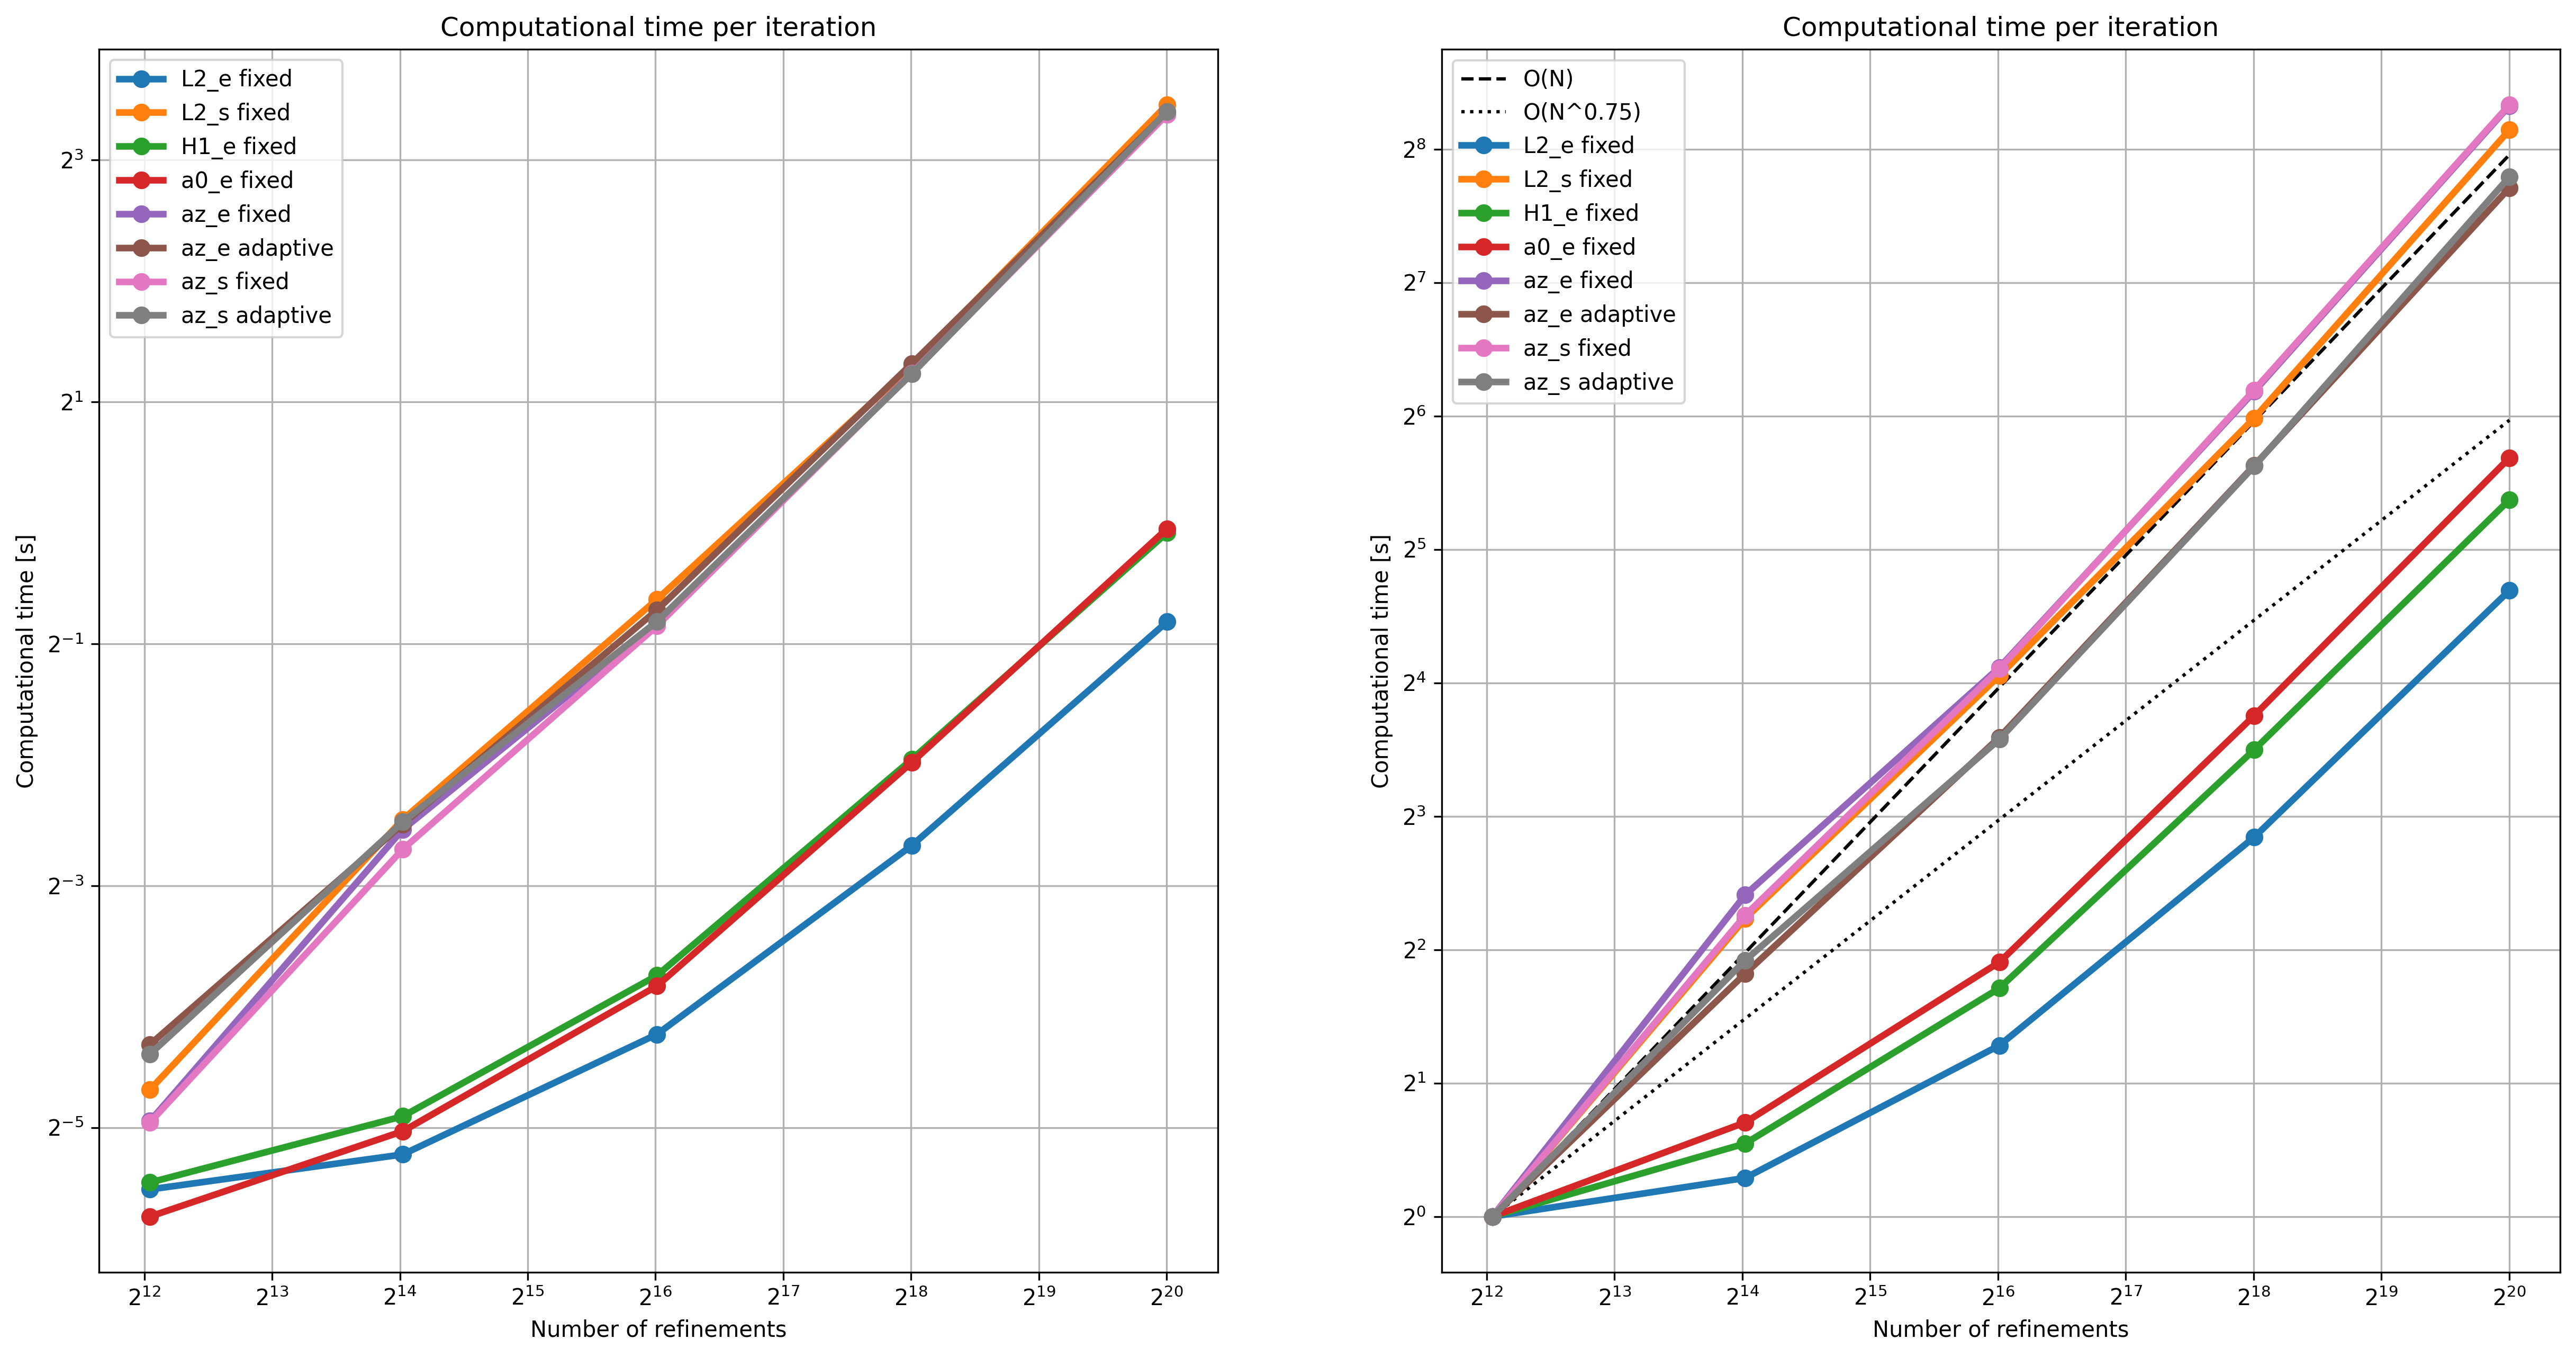
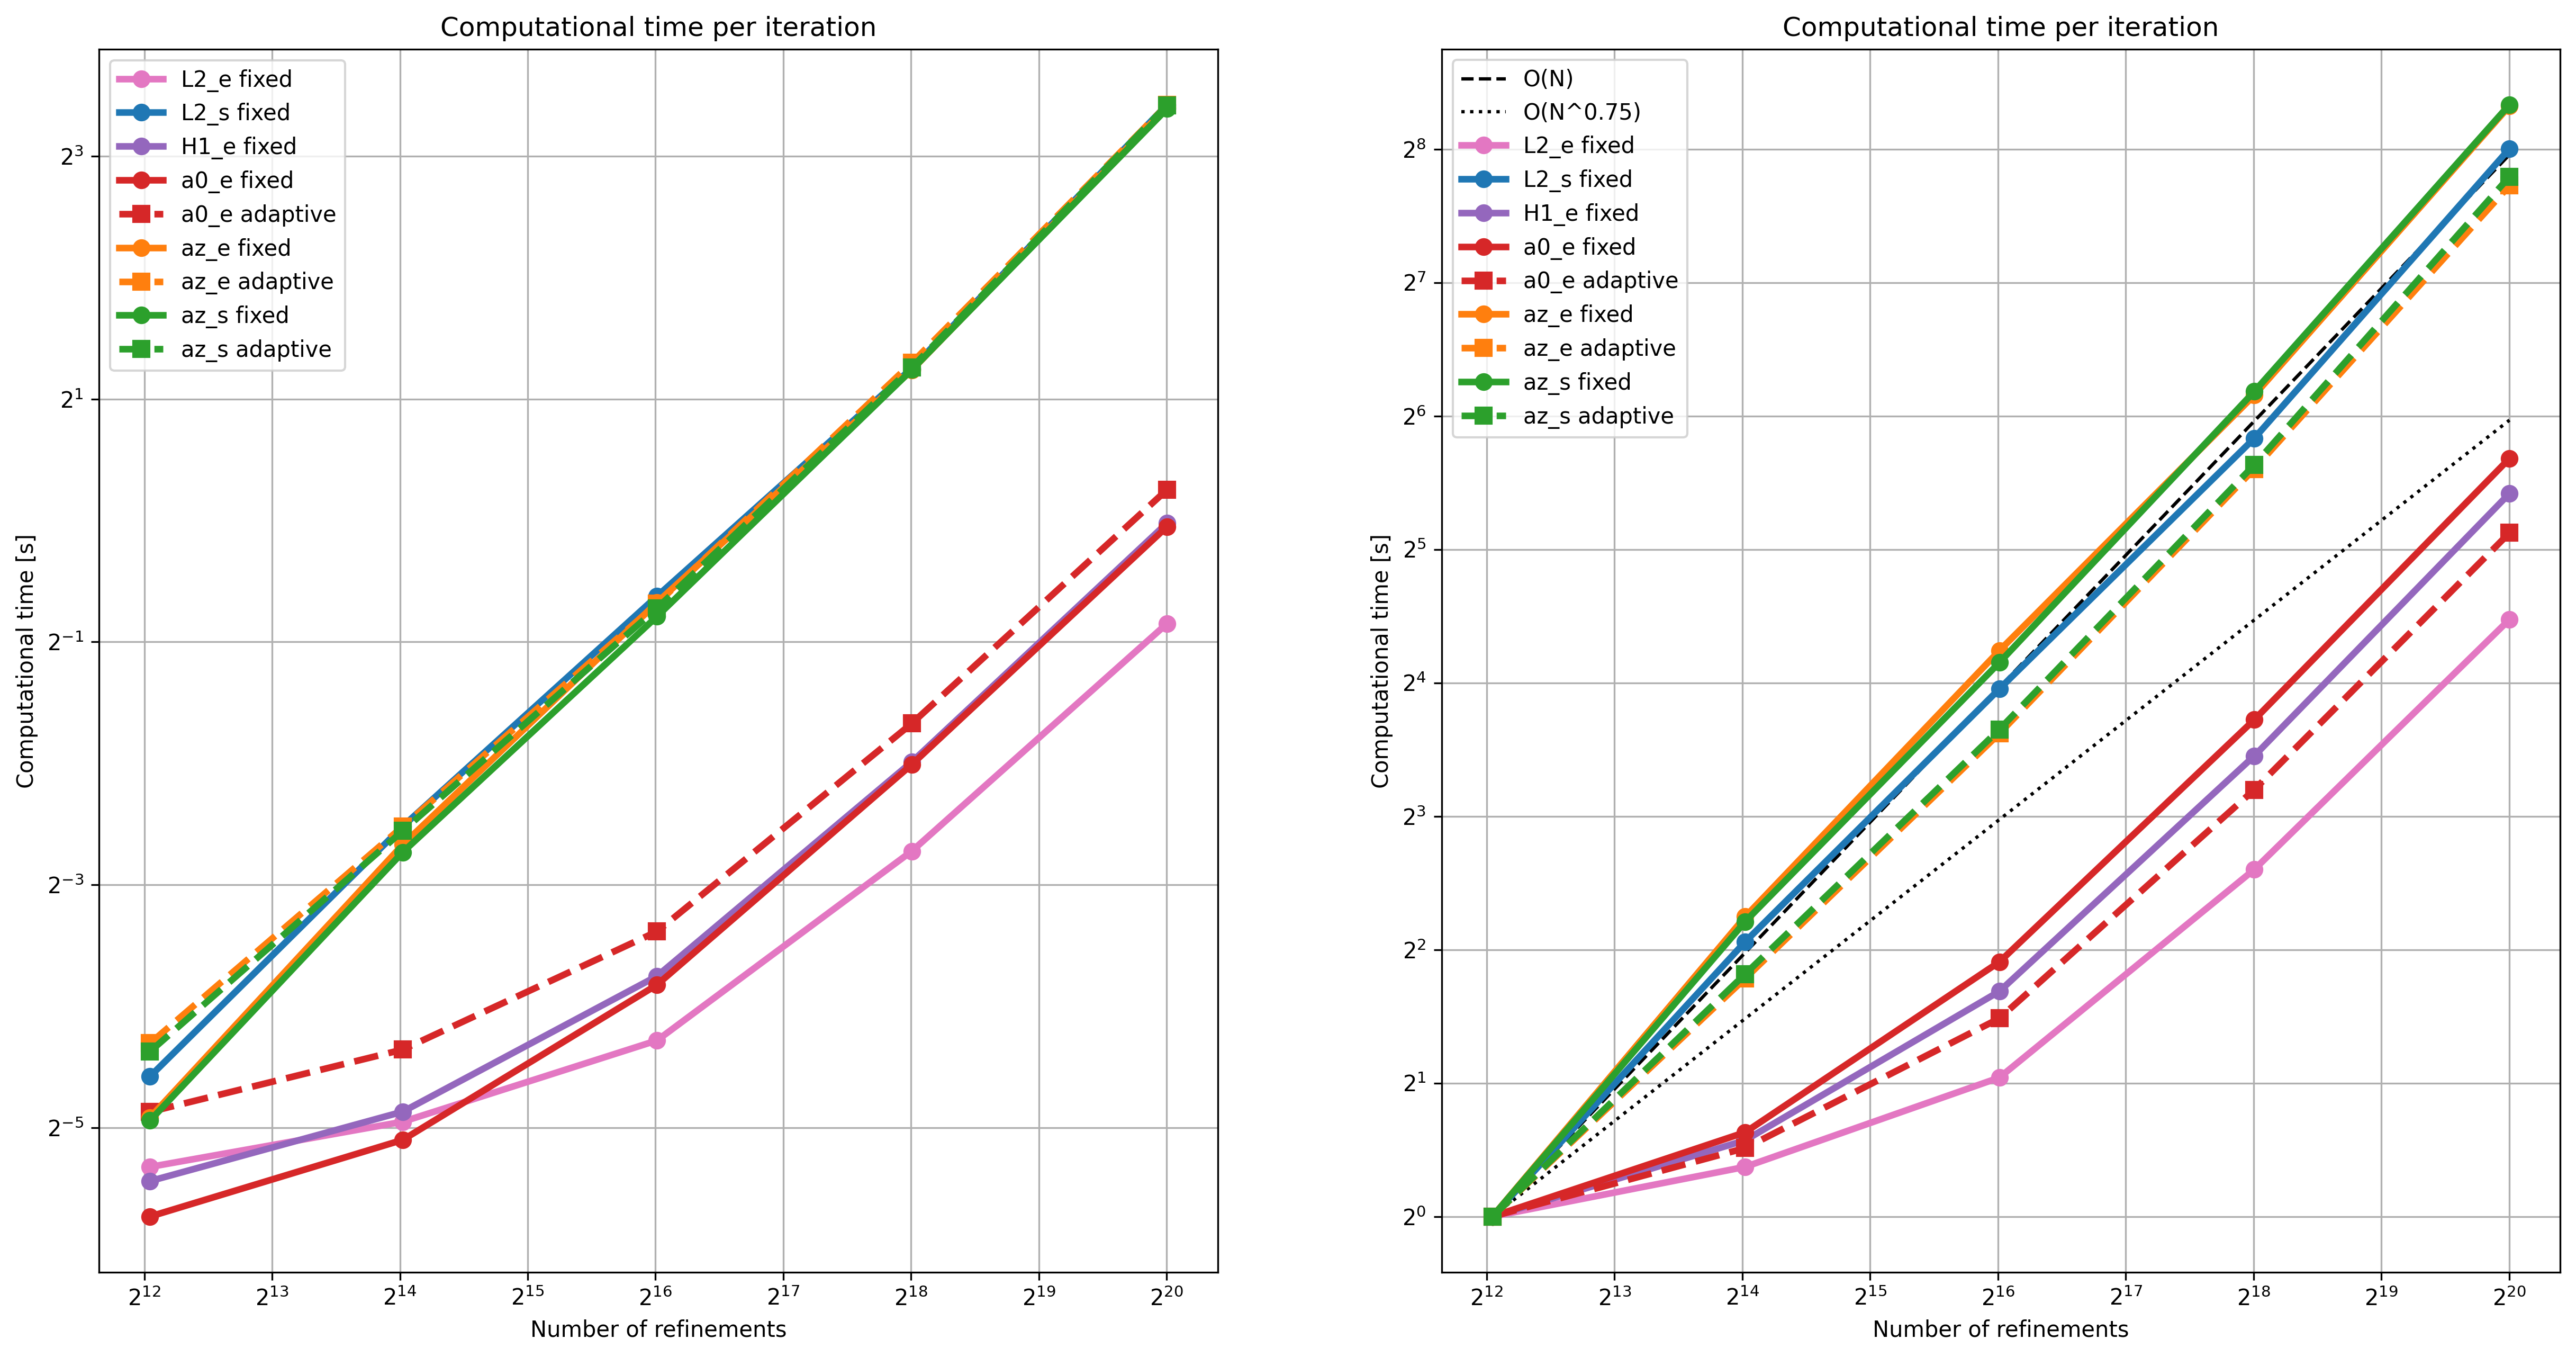
update with a0 adaptive tests

diff --git a/test_performance/plot_results_GD.py b/test_performance/plot_results_GD.py
@@ -60,8 +60,8 @@ table_path.write_text("\n".join(lines) + "\n")
 print(f"Saved markdown summary table to: {table_path}")
 
 
-color = {'L2_semimplicit': '#9467bd', 'H1_explicit': '#ff7f0e', 'a0_explicit': '#d62728',
-         'az_explicit': '#1f77b4', 'az_explicit_ada': '#6baed6', 'az_semimplicit': '#2ca02c', 'az_semimplicit_ada': '#8cc66b'}
+color = {"L2_explicit":'#e377c2', "L2_semimplicit": '#1f77b4',"H1_explicit": '#9467bd', 
+       "a0_explicit": '#d62728', "az_explicit": '#ff7f0e', "az_semimplicit": "#2ca02c"}
 
 
 fig,ax = plt.subplots(1,2,figsize=(20, 10))
@@ -70,16 +70,16 @@ for i,name in enumerate(opt):
     subset = filtered_gd[filtered_gd['method'] == name].sort_values('tau')
     if name[-3:] == 'ada':
         it = subset['iterate'].values
-        ax[0].loglog([xmin,xmax], [it,it], label=name, color=color[name])
-        ax[0].loglog(subset['tau'].values, it, marker = 'o', color=color[name])
+        ax[0].loglog([xmin,xmax], [it,it], '--', linewidth = 3, label=name, color=color[name[:-4]])
+        ax[0].loglog(subset['tau'].values, it, marker = 's', markersize=8, color=color[name[:-4]])
 
         time_tot = subset['total_time'].values
-        ax[1].loglog([xmin,xmax], [time_tot,time_tot], label=name, color=color[name])
-        ax[1].loglog(subset['tau'].values, time_tot, marker = 'o', color=color[name])
+        ax[1].loglog([xmin,xmax], [time_tot,time_tot],'--', linewidth = 3, label=name, color=color[name[:-4]])
+        ax[1].loglog(subset['tau'].values, time_tot, marker = 's', markersize=8, color=color[name[:-4]])
     else:
-        ax[0].loglog(subset['tau'].values, subset['iterate'].values, marker='o', label=name, color=color[name])
+        ax[0].loglog(subset['tau'].values, subset['iterate'].values, '-', linewidth = 3, marker='o', label=name, color=color[name])
 
-        ax[1].loglog(subset['tau'].values, subset['total_time'].values, marker='o', label=name, color=color[name])
+        ax[1].loglog(subset['tau'].values, subset['total_time'].values, '-', linewidth = 3, marker='o', label=name, color=color[name])
 
 ax[0].set_xlim([xmin,xmax])
 ax[0].set_ylim([None, 450])

diff --git a/test_budget/plot_budget.py b/test_budget/plot_budget.py
@@ -85,6 +85,9 @@ for t in type:
 #-----------------------------------------------------------------------------------------------------------------------------------------
 # Plotting section.
 #-----------------------------------------------------------------------------------------------------------------------------------------
+col = {"L2_e":'#e377c2', "L2_s": '#1f77b4',"H1_e": '#9467bd', 
+       "a0_e": '#d62728', "az_e": '#ff7f0e', "az_s": "#2ca02c"}
+
 fig, ax = plt.subplots(1,2, figsize=(20,10))
 
 #First subplot: time_assemble vs N, with log-log scaling.
@@ -94,7 +97,8 @@ ax[0].set_xscale('log', base = 2)
 # ax[0].plot(N, N, 'k--', label='O(N)')
 # ax[0].plot(N, (N)**2, 'k:', label='O(N^2)')
 for method, ada, Ta_m in T_assemble:
-    ax[0].plot(N, Ta_m, 'o-',linewidth=3, markersize=7, label=f'{method} {"adaptive" if ada == 1 else "fixed"}')
+    name = f'{method} {"adaptive" if ada == 1 else "fixed"}'
+    ax[0].plot(N, Ta_m, 's--' if ada == 1 else 'o-',linewidth=3, markersize=7, label=name, color = col[method])
 # ax[0].plot(N,(N)**1.5, 'k*',label = 'O(N^1.5)')
 # ax[0].plot(N,(N)**0.5, 'k.',label = 'O(N^0.5)')
 ax[0].set_xlabel('N')
@@ -110,7 +114,8 @@ ax[1].plot(N, N/N[0], 'k--', label='O(N)')
 ax[1].plot(N,(N/N[0])**0.5, 'k:',label = 'O(N^0.5)')
 # ax[1].plot(N, (N/N[0])**2, 'k:', label='O(N^2)')
 for method, ada, Ta_m in T_assemble:
-    ax[1].plot(N, Ta_m/Ta_m[0], 'o-',linewidth=3, markersize=7, label=f'{method} {"adaptive" if ada == 1 else "fixed"}')
+    name = f'{method} {"adaptive" if ada == 1 else "fixed"}'
+    ax[1].plot(N, Ta_m/Ta_m[0], 's--' if ada == 1 else 'o-', linewidth=3, markersize=7, label=name, color = col[method])
 # ax[1].plot(N,(N/N[0])**1.5, 'k*',label = 'O(N^1.5)')
 ax[1].set_xlabel('N')
 ax[1].set_ylabel('Time assemble [s]')
@@ -129,7 +134,8 @@ ax[0].set_xscale('log', base = 2)
 # ax[0].plot(N, (N), 'k--', label='O(N)')
 # ax[0].plot(N, (N)**2, 'k:', label='O(N^2)')
 for method, ada, Ts1_m in T_step:
-    ax[0].plot(N, Ts1_m, 'o-', linewidth=3, markersize=7, label=f'{method} {"adaptive" if ada == 1 else "fixed"}')
+    name = f'{method} {"adaptive" if ada == 1 else "fixed"}'
+    ax[0].plot(N, Ts1_m, 's--' if ada == 1 else 'o-', linewidth=3, markersize=7, label=name, color = col[method])
 # ax[0].plot(N,(N)**0.75, 'k*',label = 'O(N^0.75)')
 ax[0].set_xlabel('Number of refinements')#, fontsize=28, fontweight='bold')
 ax[0].set_ylabel('Computational time [s]')#, fontsize=28, fontweight='bold')
@@ -145,7 +151,8 @@ ax[1].plot(N, (N/N[0]), 'k--', label='O(N)') # , linewidth=3, markersize=10
 ax[1].plot(N,(N/N[0])**0.75, 'k:',label = 'O(N^0.75)')
 # ax[1].plot(N, (N/N[0])**2, 'k:', label='O(N^2)')
 for method, ada, Ts1_m in T_step:
-    ax[1].plot(N, Ts1_m/Ts1_m[0], 'o-', linewidth=3, markersize=7, label=f'{method} {"adaptive" if ada == 1 else "fixed"}')
+    name = f'{method} {"adaptive" if ada == 1 else "fixed"}'
+    ax[1].plot(N, Ts1_m/Ts1_m[0], 's--' if ada == 1 else 'o-', linewidth=3, markersize=7, label=name, color = col[method])
 ax[1].set_xlabel('Number of refinements')#, fontsize=28, fontweight='bold')
 ax[1].set_ylabel('Computational time [s]')#, fontsize=28, fontweight='bold')
 ax[1].set_title('Computational time per iteration')#, fontsize=30, fontweight='bold')

diff --git a/test_budget/compute_budget.py b/test_budget/compute_budget.py
@@ -50,7 +50,8 @@ benchmarks = [
     ('L2_e', gradients.Gradient_L2_explicit, tau),
     ('L2_s', gradients.Gradient_L2_semimplicit, tau),
     ('H1_e', gradients.Gradient_H1_explicit, tau),
-    ('a0_e', gradients.Gradient_a0_explicit, tau),  
+    ('a0_e', gradients.Gradient_a0_explicit, tau),
+    ('a0_e', gradients.Gradient_a0_explicit, None), # adaptive time step
     ('az_e', gradients.Gradient_az_explicit, tau),
     ('az_e', gradients.Gradient_az_explicit, None), # adaptive time step
     ('az_s', gradients.Gradient_az_semimplicit, tau),

diff --git a/test_budget/README.md b/test_budget/README.md
@@ -64,48 +64,53 @@ The three methods that have already factorized the matrix require less time even
 
 Below is reported also the table with the same data. More coarse meshes have been taken into account but are not reported because the dominant time in same cases becomes the allocation of the memory instead of linear system solution. 
 
-| method | adaptivity | h | N | time assemble | time step |
+| method | adaptivity | h | N | time_assemble | time_step |
 | --- | --- | --- | --- | --- | --- |
-| H1_e | 0 | 0.000977 | 1050625 | 10.2 | 0.944 |
-| H1_e | 0 | 0.00195 | 263169 | 2.31 | 0.258 |
-| H1_e | 0 | 0.00391 | 66049 | 0.568 | 0.0747 |
-| H1_e | 0 | 0.00781 | 16641 | 0.155 | 0.0333 |
-| H1_e | 0 | 0.0156 | 4225 | 0.0235 | 0.0228 |
-| L2_e | 0 | 0.000977 | 1050625 | 10.4 | 0.567 |
-| L2_e | 0 | 0.00195 | 263169 | 2.24 | 0.157 |
-| L2_e | 0 | 0.00391 | 66049 | 0.57 | 0.0533 |
-| L2_e | 0 | 0.00781 | 16641 | 0.139 | 0.0268 |
-| L2_e | 0 | 0.0156 | 4225 | 0.0218 | 0.0219 |
-| L2_s | 0 | 0.000977 | 1050625 | 0.000681 | 11.0 |
-| L2_s | 0 | 0.00195 | 263169 | 0.000788 | 2.46 |
-| L2_s | 0 | 0.00391 | 66049 | 0.000772 | 0.645 |
-| L2_s | 0 | 0.00781 | 16641 | 0.000719 | 0.183 |
-| L2_s | 0 | 0.0156 | 4225 | 0.000937 | 0.0388 |
-| a0_e | 0 | 0.000977 | 1050625 | 10.3 | 0.966 |
-| a0_e | 0 | 0.00195 | 263169 | 2.32 | 0.253 |
-| a0_e | 0 | 0.00391 | 66049 | 0.566 | 0.0703 |
-| a0_e | 0 | 0.00781 | 16641 | 0.154 | 0.0306 |
-| a0_e | 0 | 0.0156 | 4225 | 0.0264 | 0.0188 |
-| az_e | 0 | 0.000977 | 1050625 | 0.000727 | 10.4 |
-| az_e | 0 | 0.00195 | 263169 | 0.000762 | 2.36 |
-| az_e | 0 | 0.00391 | 66049 | 0.000757 | 0.562 |
-| az_e | 0 | 0.00781 | 16641 | 0.00082 | 0.172 |
-| az_e | 0 | 0.0156 | 4225 | 0.000774 | 0.0324 |
-| az_e | 1 | 0.000977 | 1050625 | 0.000808 | 10.5 |
-| az_e | 1 | 0.00195 | 263169 | 0.000803 | 2.49 |
-| az_e | 1 | 0.00391 | 66049 | 0.000789 | 0.606 |
-| az_e | 1 | 0.00781 | 16641 | 0.000851 | 0.178 |
-| az_e | 1 | 0.0156 | 4225 | 0.000808 | 0.0503 |
-| az_s | 0 | 0.000977 | 1050625 | 0.000787 | 10.4 |
-| az_s | 0 | 0.00195 | 263169 | 0.000829 | 2.36 |
-| az_s | 0 | 0.00391 | 66049 | 0.000858 | 0.553 |
-| az_s | 0 | 0.00781 | 16641 | 0.000783 | 0.154 |
-| az_s | 0 | 0.0156 | 4225 | 0.000838 | 0.0322 |
-| az_s | 1 | 0.000977 | 1050625 | 0.000795 | 10.5 |
-| az_s | 1 | 0.00195 | 263169 | 0.000837 | 2.35 |
-| az_s | 1 | 0.00391 | 66049 | 0.000757 | 0.568 |
-| az_s | 1 | 0.00781 | 16641 | 0.000885 | 0.18 |
-| az_s | 1 | 0.0156 | 4225 | 0.000818 | 0.0476 |
+| H1_e | 0 | 0.000977 | 1050625 | 10.4 | 0.986 |
+| H1_e | 0 | 0.00195 | 263169 | 2.29 | 0.252 |
+| H1_e | 0 | 0.00391 | 66049 | 0.596 | 0.0742 |
+| H1_e | 0 | 0.00781 | 16641 | 0.162 | 0.0342 |
+| H1_e | 0 | 0.0156 | 4225 | 0.0246 | 0.023 |
+| L2_e | 0 | 0.000977 | 1050625 | 10.6 | 0.555 |
+| L2_e | 0 | 0.00195 | 263169 | 2.31 | 0.151 |
+| L2_e | 0 | 0.00391 | 66049 | 0.576 | 0.0514 |
+| L2_e | 0 | 0.00781 | 16641 | 0.142 | 0.0323 |
+| L2_e | 0 | 0.0156 | 4225 | 0.0217 | 0.025 |
+| L2_s | 0 | 0.000977 | 1050625 | 0.000762 | 10.7 |
+| L2_s | 0 | 0.00195 | 263169 | 0.000805 | 2.39 |
+| L2_s | 0 | 0.00391 | 66049 | 0.000792 | 0.649 |
+| L2_s | 0 | 0.00781 | 16641 | 0.000702 | 0.175 |
+| L2_s | 0 | 0.0156 | 4225 | 0.000819 | 0.0419 |
+| a0_e | 0 | 0.000977 | 1050625 | 10.4 | 0.966 |
+| a0_e | 0 | 0.00195 | 263169 | 2.32 | 0.248 |
+| a0_e | 0 | 0.00391 | 66049 | 0.595 | 0.0706 |
+| a0_e | 0 | 0.00781 | 16641 | 0.166 | 0.0291 |
+| a0_e | 0 | 0.0156 | 4225 | 0.0267 | 0.0188 |
+| a0_e | 1 | 0.000977 | 1050625 | 10.4 | 1.19 |
+| a0_e | 1 | 0.00195 | 263169 | 2.34 | 0.314 |
+| a0_e | 1 | 0.00391 | 66049 | 0.577 | 0.0957 |
+| a0_e | 1 | 0.00781 | 16641 | 0.162 | 0.0488 |
+| a0_e | 1 | 0.0156 | 4225 | 0.0266 | 0.0342 |
+| az_e | 0 | 0.000977 | 1050625 | 0.000863 | 10.6 |
+| az_e | 0 | 0.00195 | 263169 | 0.000889 | 2.36 |
+| az_e | 0 | 0.00391 | 66049 | 0.000872 | 0.626 |
+| az_e | 0 | 0.00781 | 16641 | 0.000725 | 0.157 |
+| az_e | 0 | 0.0156 | 4225 | 0.000634 | 0.0331 |
+| az_e | 1 | 0.000977 | 1050625 | 0.000721 | 10.7 |
+| az_e | 1 | 0.00195 | 263169 | 0.000738 | 2.46 |
+| az_e | 1 | 0.00391 | 66049 | 0.000842 | 0.622 |
+| az_e | 1 | 0.00781 | 16641 | 0.000712 | 0.174 |
+| az_e | 1 | 0.0156 | 4225 | 0.000667 | 0.0506 |
+| az_s | 0 | 0.000977 | 1050625 | 0.00078 | 10.5 |
+| az_s | 0 | 0.00195 | 263169 | 0.000727 | 2.36 |
+| az_s | 0 | 0.00391 | 66049 | 0.000823 | 0.578 |
+| az_s | 0 | 0.00781 | 16641 | 0.000678 | 0.151 |
+| az_s | 0 | 0.0156 | 4225 | 0.000602 | 0.0325 |
+| az_s | 1 | 0.000977 | 1050625 | 0.000761 | 10.7 |
+| az_s | 1 | 0.00195 | 263169 | 0.000731 | 2.4 |
+| az_s | 1 | 0.00391 | 66049 | 0.00078 | 0.606 |
+| az_s | 1 | 0.00781 | 16641 | 0.000896 | 0.17 |
+| az_s | 1 | 0.0156 | 4225 | 0.000635 | 0.0483 |
 
 These numbers make more evident that the adaptivity does not require an important computational cost: increasing the mesh refinement becomes aproximatly the same with or without adaptivity.
 